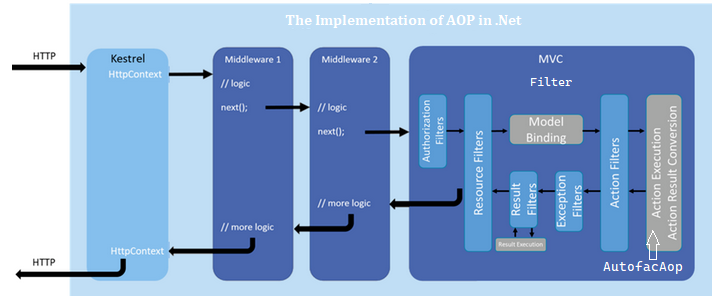
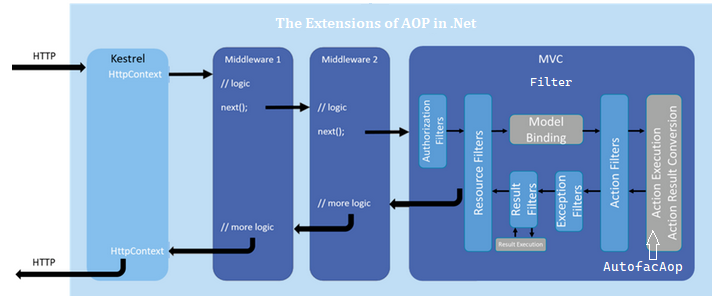
update image and readme

Changed region(s): [[0.3687, 0.03, 0.7374, 0.09]]

diff --git a/README.md b/README.md
@@ -1,89 +1,39 @@
 
-**OOP** is object-oriented programming with objects as the minimum unit. The extensibility of programs depends on the replacement of object based on abstraction mainly. That is to say, there is no way to go deep into the class to expand the function. As business requirements change, developers need to create more classes to meet different requirements which make it more and more difficult to maintain the system. Also there are some non-business functional requirements in the system which cause a large amount of duplicate code, such as logging, exception handling, performance statistics and security control etc. Is there a good way to expand the functionalities without breaking the encapsulation of the class or creating new classes? Yes, we could achieve them through AOP.
+The article focuses on the extensions of Aspect-Oriented Programming (AOP) in .Net, a necessary complement to Object-Oriented Programming (OOP). In OOP, objects serve as the smallest units, and program extensibility primarily relies on object replacement based on abstraction. As business needs evolve, developers must create an increasing number of classes to meet diverse requirements, making system maintenance increasingly challenging. Additionally, the system may have non-business functional requirements that lead to considerable code duplication, such as logging, exception handling, performance statistics, and security control. AOP provides a solution for expanding functionalities without breaking class encapsulation or creating new classes.
 
-**AOP** is a technology to achieve unified maintenance of program functions through precompiling and runtime dynamic agents. It is a supplement to OOP.
-
-There are some key concepts in AOP Model.
+**AOP** is a technology that enables unified program function maintenance through precompiling and runtime dynamic agents. It introduces key concepts like Aspect, Advice, JoinPoint, Target, and PointCut. Aspect is a module with a set of APIs providing cross-cutting requirements, like a logging module. Advice refers to the actual action taken before or after method execution. JoinPoint represents a point in an application where an AOP aspect can be plugged in, while Target refers to the object advised by one or more aspects. PointCut is a set of one or more Joinpoints where advice should be executed.
 
 ![AOP concepts](/Images/aop_concepts.png)
 
-**1. Aspect**
-A module which has a set of APIs providing cross-cutting requirements. For example, a logging module would be called AOP aspect for logging. An application can have any number of aspects depending on the requirement.
-
-**2. Advice**
-This is the actual action to be taken either before or after the method execution. This is the actual piece of code that is invoked during program execution.
-
-**3. JoinPoint**
-This represents a point in your application where you can plug-in AOP aspect.
-
-**4. Target**
-The object being advised by one or more aspects.
-
-**5. PointCut**
-This is a set of one or more joinpoints where an advice should be executed.
-
-
-.Net uses the following 3 types of solutions to complete the AOP extension of the whole system from top to bottom.
-
-**1. Middleware**
-
-Request level, which is used to handle all the requests, such as request interception, authentication, session management, log recording of all requests etc.
-
-**2. Filter**
-
-Function level, which is used to extend the functions of one or some or a series of requests. For example, for some sensitive APIs, it needs to record the detail user access information.
-
-**3. AutofacAOP**
-
-Business level, which is used handle the specific business, such as CRUD of a business data. It can extend function within one method.
+.Net employs three types of solutions to implement AOP extensions throughout the system: Middleware, Filter, and AutofacAOP. Middleware handles all requests at the request level, like request interception, authentication, session management, and log recording etc. Filter extends the functions of one or more requests at the function level, like recording user access information for sensitive APIs. AutofacAOP handles specific business operations at the business level, like CRUD of business data, and can extend function within a method.
 
 ![AOP in .Net](/Images/aop_in_net.png)
 
-**Middleware** is software that's assembled into an pipeline to handle requests and responses. Each middleware can choose whether to pass the request to the next middleware in the pipeline and perform additional work before and after the next middle in the pipeline.
+**Middleware** is software assembled into a pipeline to manage requests and responses, deciding whether to pass the request to the next middleware and perform additional work before and after the next middleware.
 
 ![Middle workflow](/Images/middleware_workflow.png)
 
+.Net provides some built-in middleware like ExceptionHandler, HSTS, HttpsRedirection, Static Files, Routing, CORS, Authentication, Authorization, and Endpoint etc. Also, you can create custom middleware to handle requests and responses.
+
 ![built-in middleware](/Images/builtin_middleware.png)
 
-**Filter** in .Net allows code to run before or after specific stages in the request processing pipeline.
+**Filter** in .Net allows code execution before or after specific stages in the request processing pipeline, including Authorization filters, Resource filters, Action filters, Result filters, and Exception filters etc.
 
 ![Filters](/Images/filter.png)
 
-**1. Authorization filter**
+**Authorization Filters** - This is the first step in the filter pipeline. It is used to determine whether the user is authorized for the request. It also decides whether the action method gets executed, based on authentication and authorization rules defined in the application.
 
-It's used to determine whether the user is authorized for the request.
+**Resource Filters** - This is the second step in the filter pipeline. The resource filter can handle tasks both before and after the rest of the pipeline is executed. These filters get executed after authorization filters. They are useful in caching responses or in short-circuiting the pipeline before the action method is called when some specific conditions are met.
 
-**2. Resource filter**
+**Action Filters** - These filters are executed before and after the controller action method is invoked. Which means they run after the model binding has been done, so they can access the action method’s input parameters. They are suitable for logging or handling custom logic or to modify the arguments or the IActionResult returned by an action.
 
-It’s suitable for cache.
+**Result Filters** - These filters are executed before and after the execution of the action result. They can be used to modify the view data, or to change the arguments of the action result, or to modify the IActionResult prior to its execution. They are very useful to format the outgoing result before it’s sent to the client.
 
-**3. Action filter**
+**Exception Filters** - These filters are the error handlers and are used to handle unhandled errors that are thrown during the execution of the Controller Action or the Controller Constructor or within the filter pipeline. But exception filters can’t handle the non-existed URL and the unhandled exception in View binding. We can use middleware to catch and handle them globally across the application.
 
-It’s suitable for log.
+**Autofac** is a high-performance IOC container under .Net that can be easily integrated with a library such as Castle DynamicProxy to enable AOP through method interception.
 
-**4. Result filter**
-
-It's used to format result.
-
-**5. Exception filter**
-
-It's used to apply global policies to unhandled exceptions. The exceptions in the following cases can be cached by it,
-
-(1) Action has unhandled exception
-
-(2) Service has unhandled exception
-
-(3) The constructor in controller has unhandled exception
-
-The exceptions in the following cases can't be cached by exception filter. But we can use the Middleware to catch them.
-
-(4) View binding has unhandled exception
-
-(5) The non-existed URL
-
-**Autofac** is an excellent IOC container with good performance under .Net. It supports AOP too. **AutofacAOP** is implemented through the core part of Castle (also a container) project. Its implementation mode is dynamic proxy.
-
-To summarize, AOP can easily extend functions, such as logging, exception handling, performance statistics and security control etc. The extended functions can be managed centralized and be maintained conveniently. The extended functions and business are independent and uncoupled. Multiple businesses can reuse the same extended function. In this way, some developers can focus on core business logic while other developers can focus on the extended functions that is very beneficial for the division of labor and collaboration and team management in software development. So for that reason, OOP extensibility design should be abstract-oriented class replacement extension and AOP aspect-oriented extension.
+In conclusion, AOP can effortlessly extend functions like logging, exception handling, performance statistics, and security control. The extended functions are managed centrally and maintained conveniently, independent and uncoupled from the business. Multiple businesses can reuse the same extended function, allowing some developers to concentrate on core business logic while others focus on extended functions. This division of labor facilitates collaboration and team management in software development. Hence, OOP extensibility design should be abstract-oriented class replacement extension and AOP aspect-oriented extension.
 
 **Development environment setup manual:** 
 
